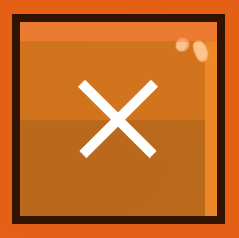
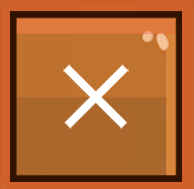
adding instruction

diff --git a/objects/intro.js b/objects/intro.js
@@ -1,0 +1,128 @@
+export class Intro extends Phaser.GameObjects.Container {
+    constructor(scene, x, y, gameScene, dimensions) {
+        super(scene);
+        this.scene = scene;
+        this.dimensions = dimensions;
+        this.x = x;
+        this.y = y;
+        this.gameScene = gameScene;
+        this.scene.add.existing(this);
+
+        this.init();
+    }
+
+    init() {
+        this.graphicsGrp = this.scene.add.container(0, 0);
+        this.add(this.graphicsGrp);
+
+        this.graphics = this.scene.make.graphics().fillStyle(0x141414, .3).fillRect(this.dimensions.leftOffset, this.dimensions.topOffset, this.dimensions.actualWidth, this.dimensions.actualHeight);
+        this.graphicsGrp.add(this.graphics);
+
+        this.frame = this.scene.add.sprite(0, 0, "sheet", "panel");
+        this.frame.setOrigin(0.5);
+        this.add(this.frame);
+
+        this.leftArrow = this.scene.add.sprite(-250, 0, "sheet", "left");
+        this.leftArrow.setOrigin(0.5);
+        this.add(this.leftArrow);
+
+        this.rightArrow = this.scene.add.sprite(-250, 0, "sheet", "right");
+        this.rightArrow.setOrigin(0.5);
+        this.add(this.rightArrow);
+
+        this.closeBtn = this.scene.add.sprite(-250, 0, "sheet", "close");
+        this.closeBtn.setOrigin(0.5);
+        this.closeBtn.setScale(0.5);
+        this.add(this.closeBtn);
+
+        this.playBtn = this.scene.add.sprite(-250, 0, "sheet", "play");
+        this.playBtn.setOrigin(0.5);
+        this.playBtn.setScale(0.8);
+        this.add(this.playBtn);
+
+        this.playBtn.setInteractive().on("pointerdown", () => this.hide());
+        this.closeBtn.setInteractive().on("pointerdown", () => this.hide());
+        this.rightArrow.setInteractive().on("pointerdown", () => {
+            if (this.rightArrow.alpha === 0.5) return;
+            this.changeTutorial(1);
+        });
+        this.leftArrow.setInteractive().on("pointerdown", () => {
+            if (this.leftArrow.alpha === 0.5) return;
+            this.changeTutorial(-1);
+        });
+
+    }
+
+    changeTutorial(direction) {
+        if (this.tutorial1.runTween || this.tutorial2.runTween || this.tutorial3.runTween) return;
+
+        this.tutorial1.stopTimer();
+        this.tutorial2.stopTimer();
+        this.tutorial3.stopTimer();
+
+        let currentTutorial = this[`tutorial${this.level + 1}`];
+        let nextLevel = (this.level + direction + 3) % 3;
+        let nextTutorial = this[`tutorial${nextLevel + 1}`];
+
+        this.scene.tweens.add({
+            targets: currentTutorial,
+            x: direction > 0 ? -500 : 500,
+            ease: "Cubic.easeOut",
+            duration: 300,
+            onComplete: () => {
+                currentTutorial.hide();
+                currentTutorial.x = 500;
+            }
+        });
+
+        nextTutorial.x = direction > 0 ? 500 : -500;
+        nextTutorial.show();
+        this.scene.tweens.add({
+            targets: nextTutorial,
+            x: 0,
+            ease: "Cubic.easeIn",
+            duration: 300
+        });
+
+        this.level = nextLevel;
+        this.leftArrow.setAlpha(this.level === 0 ? 0.5 : 1);
+        this.rightArrow.setAlpha(this.level === 2 ? 0.5 : 1);
+    }
+
+    hide() {
+        if (!this.visible) return;
+        this.scene.tweens.add({
+            targets: this,
+            alpha: { from: 1, to: 0 },
+            ease: "Linear",
+            duration: 200,
+            onComplete: () => {
+                this.visible = false;
+                this.alpha = 1;
+                this.scene.gamePlay.startGame();
+            }
+        });
+    }
+
+    adjust() {
+
+        this.x = this.dimensions.gameWidth / 2;
+        this.y = this.dimensions.gameHeight / 2 - 70;
+
+        if (this.graphics) this.graphics.destroy();
+        this.graphics = this.scene.make.graphics().fillStyle(0x141414, .7).fillRect(this.dimensions.leftOffset - this.x, this.dimensions.topOffset - this.y, this.dimensions.actualWidth, this.dimensions.actualHeight);
+        this.graphicsGrp.add(this.graphics);
+
+        this.leftArrow.x = this.dimensions.leftOffset + 17 - this.x;
+        this.leftArrow.y = this.dimensions.gameHeight / 2 - 50 - this.y;
+
+        this.rightArrow.x = this.dimensions.rightOffset - 17 - this.x;
+        this.rightArrow.y = this.dimensions.gameHeight / 2 - 50 - this.y;
+
+        this.closeBtn.x = this.dimensions.leftOffset + 47 - this.x;
+        this.closeBtn.y = this.dimensions.bottomOffset - 47 - this.y;
+
+        this.playBtn.x = this.dimensions.rightOffset - 214 - this.x;
+        this.playBtn.y = this.dimensions.bottomOffset - 47 - this.y;
+    }
+}

diff --git a/scenes/GameScene.js b/scenes/GameScene.js
@@ -14,6 +14,7 @@ import config from '../config.js';
 import {
     GamePlay
 } from '../objects/game-play.js';
+import { Intro } from '../objects/intro.js';
 
 let dimensions = {}
 export default class GameScene extends Phaser.Scene {
@@ -60,11 +61,14 @@ export default class GameScene extends Phaser.Scene {
         this.bg = this.add.sprite(0, 0, 'bg').setOrigin(0.5);
         this.gameGroup.add(this.bg);
 
-        this.logo = this.add.sprite(0, 0, "sheet", 'logo').setOrigin(0.5);
-        this.gameGroup.add(this.logo);
-
         this.gamePlay = new GamePlay(this, 0, 0, this, dimensions);
         this.gameGroup.add(this.gamePlay);
+
+        this.intro = new Intro(this, 0, 0, this, dimensions);
+        this.gameGroup.add(this.intro);
+
+        this.logo = this.add.sprite(0, 0, "sheet", 'logo').setOrigin(0.5);
+        this.gameGroup.add(this.logo);
 
         this.cta = new CTA(this, 0, 0, this, dimensions);
         this.gameGroup.add(this.cta);
@@ -99,7 +103,6 @@ export default class GameScene extends Phaser.Scene {
             volume: 1
         });
         this.bgm.play();
-        this.gamePlay.startGame();
     }
 
     hideUI() {
@@ -234,13 +237,12 @@ export default class GameScene extends Phaser.Scene {
 
         this.logo.x = dimensions.gameWidth / 2;
         this.logo.y = dimensions.topOffset + 60;
-        this.logo.setScale(.3);
 
         this.gamePlay.x = dimensions.gameWidth / 2;
         this.gamePlay.y = dimensions.gameHeight / 2 + 50;
 
         this.cta.adjust();
-
+        this.intro.adjust();
     }
 
     offsetMouse() {

diff --git a/index.html b/index.html
@@ -13,8 +13,8 @@
     <meta name="apple-mobile-web-app-capable" content="yes" />
     <meta name="apple-mobile-web-app-status-bar-style" content="black" />
     <meta name="viewport" content="initial-scale=1 maximum-scale=1 user-scalable=0 minimal-ui" />
-    <script src="https://cdn.jsdelivr.net/npm/phaser@3.60.0/dist/phaser.min.js"></script>
-    <script src="dist/bundle.js"></script>
+    <!-- <script src="https://cdn.jsdelivr.net/npm/phaser@3.60.0/dist/phaser.min.js"></script> -->
+    <!-- <script src="dist/bundle.js"></script> -->
 
     <style>
         html {
@@ -63,6 +63,7 @@
     <div id="loader"></div>
     <div id='game'></div>
     <script src="lib/phaser.min.js"></script>
+    <script src='main.js' type='module'></script>
     <script>
         function check_iOS() {
             return [

diff --git a/objects/cta.js b/objects/cta.js
@@ -36,7 +36,7 @@ export class CTA extends Phaser.GameObjects.Container {
         this.line.fillRect(-100, 150, 200, 4)
         this.add(this.line);
 
-        this.logo = this.scene.add.sprite(0, -175, "sheet", 'logo').setOrigin(0.5).setScale(0.5);
+        this.logo = this.scene.add.sprite(0, -175, "sheet", 'logo').setOrigin(0.5).setScale(0.8);
         this.add(this.logo);
 
         this.ctaText3 = this.scene.add.text(0, 250, this.scene.text.texts[0].ctaTxt3, {

diff --git a/objects/game-play.js b/objects/game-play.js
@@ -88,10 +88,13 @@ export class GamePlay extends Phaser.GameObjects.Container {
         this.staticBallWidth = this.staticBall.width;
         this.staticBallHeight = this.staticBall.height;
 
+        this.visible = false;
+
     }
 
     startGame() {
         this.gameStarted = true;
+        this.visible = true;
     }
     update() {
         if (!this.gameStarted) return;
